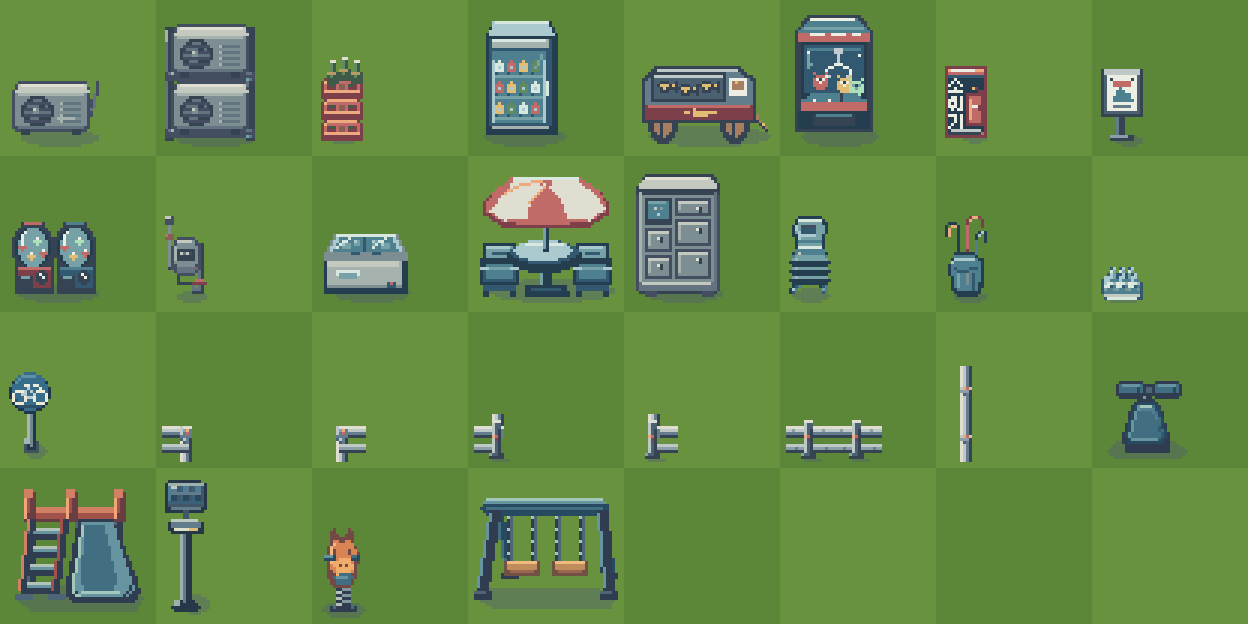
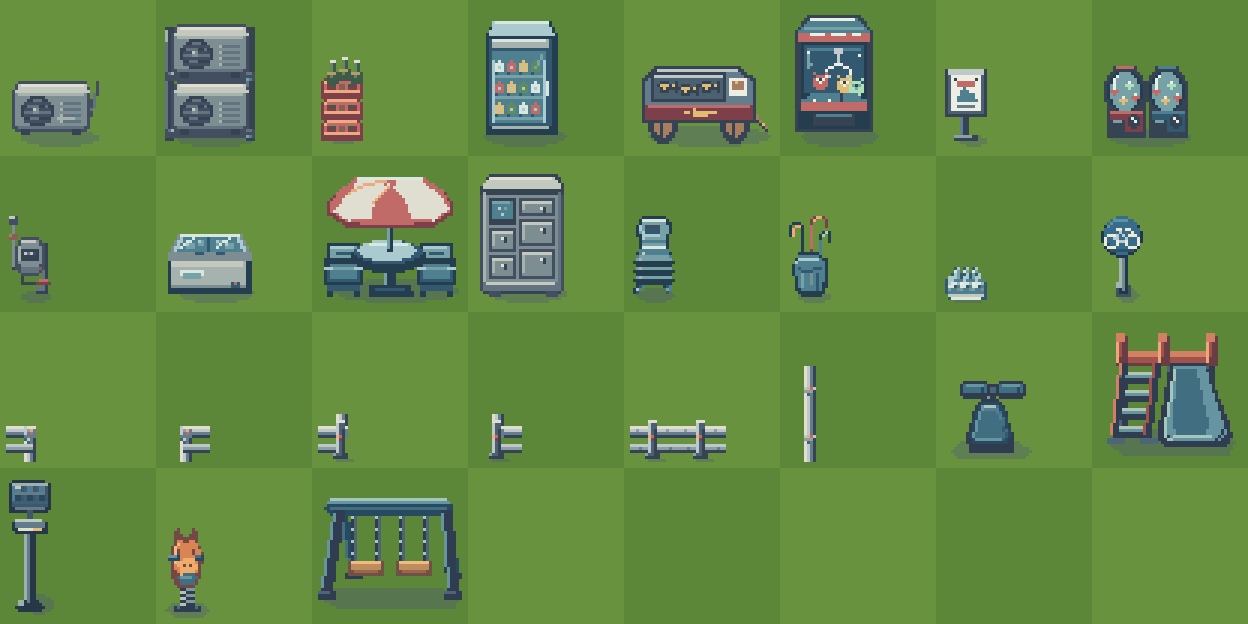
fix: 글자가 보이는 벽걸이 소화기함을 뺀다
city_kprop_extinguisher_cabinet 은 맞춤법이 틀린 글자가 보여서 카탈로그, PNG, 미리보기 시트, 출처 표에서 뺀다.

diff --git a/public/assets/ATTRIBUTION.md b/public/assets/ATTRIBUTION.md
@@ -551,6 +551,6 @@ No image-generation output and no third-party art other than the Scarloxy chip b
 
 ## Beodeul placeable objects
 
-- Files: the 397 placeable PNGs in [the Beodeul catalog](beodeul-objects/catalog.json). Each entry records the approved source filename. The existing Beodeul reference illustrations are under `beodeul-object-references/`.
+- Files: the 396 placeable PNGs in [the Beodeul catalog](beodeul-objects/catalog.json). Each entry records the approved source filename. The existing Beodeul reference illustrations are under `beodeul-object-references/`.
 - Artwork: OPRN Studio · ChatGPT dots, in the Beodeul style.
 - License: OPRN-GAME ([OPRN Game Use License](../../ASSET-LICENSE.md)).
